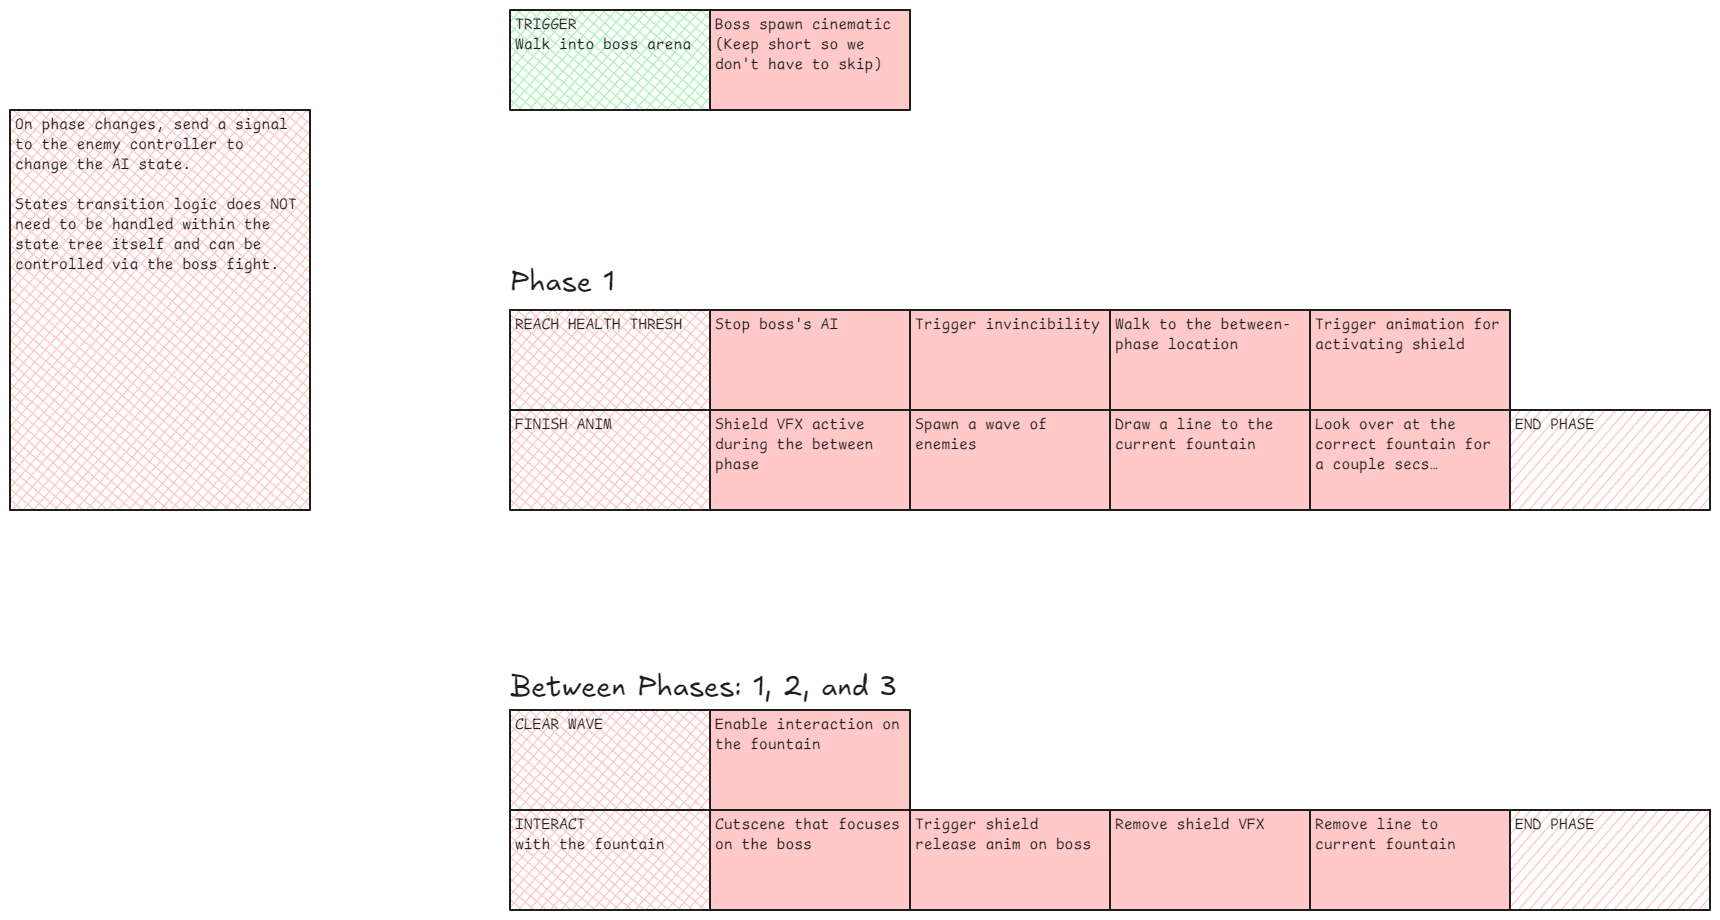
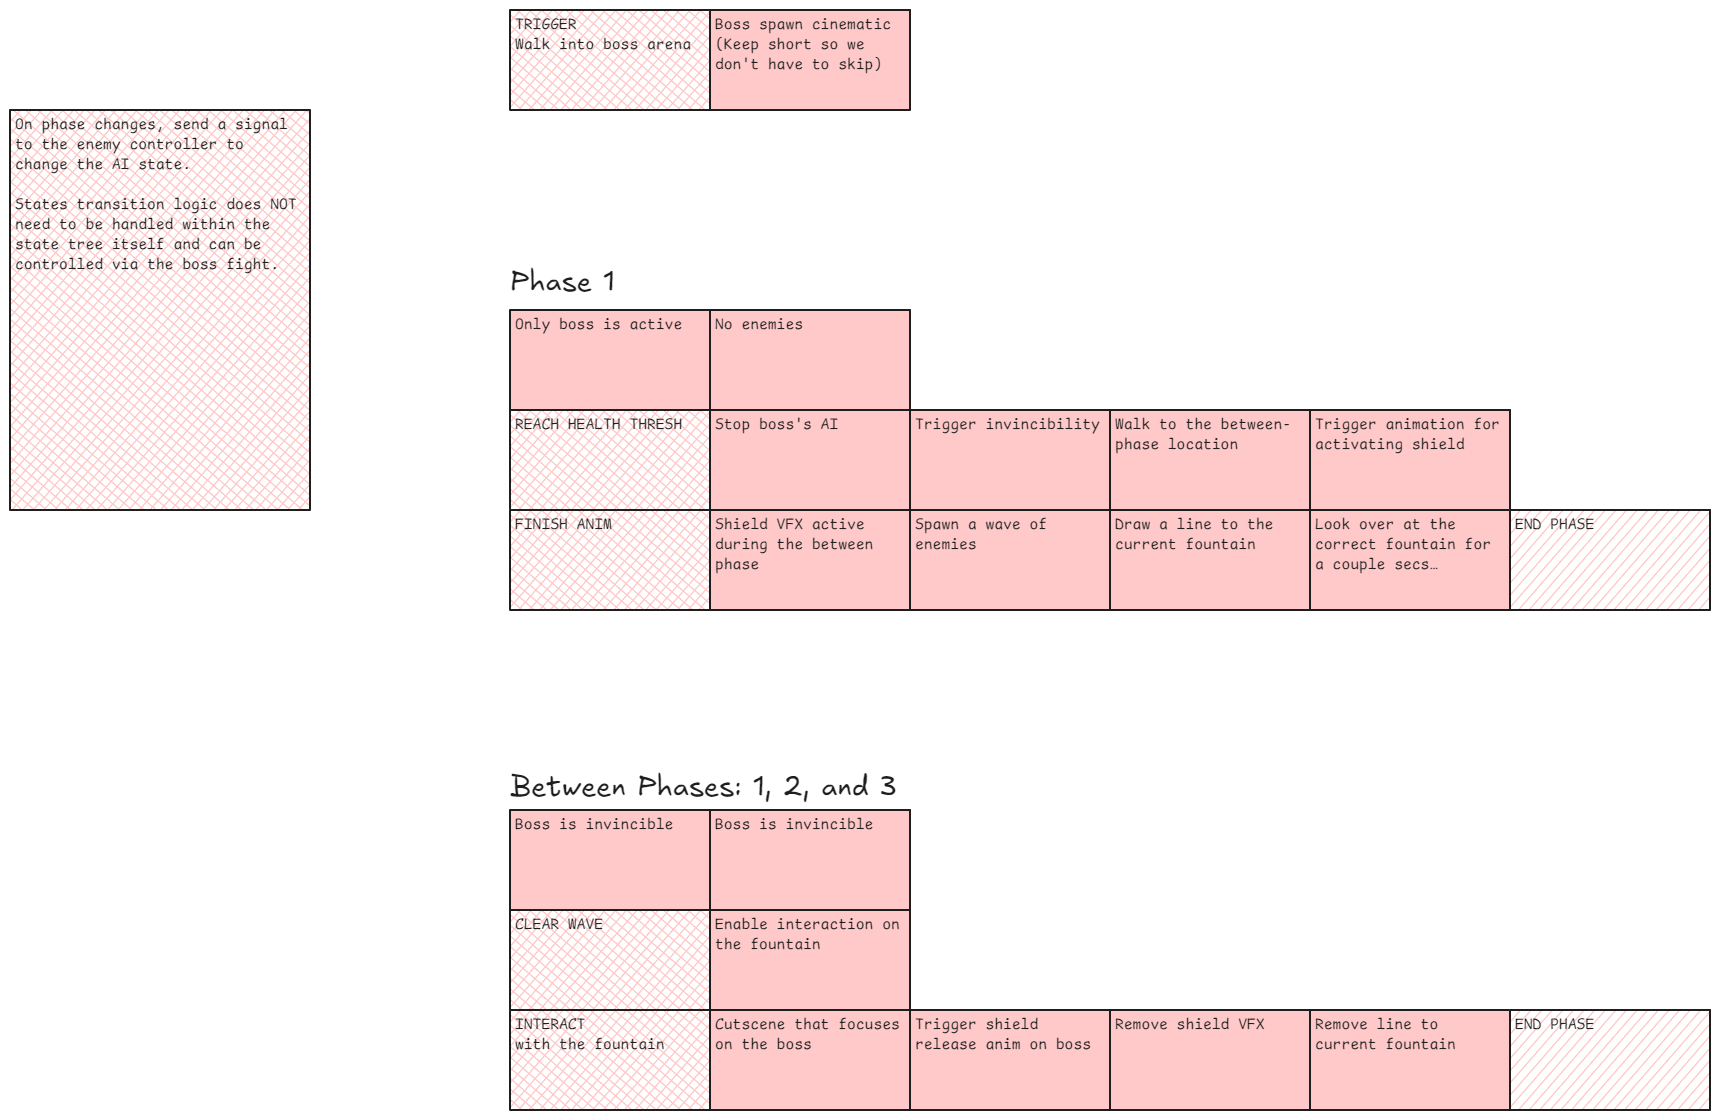
vault backup: 2026-08-07 18:47:00

diff --git a/Projects/Summer Project/Mechanics/Boss/Boss01 Graph.md b/Projects/Summer Project/Mechanics/Boss/Boss01 Graph.md
@@ -65,6 +65,14 @@ END PHASE ^WZFqFpZY
 
 END PHASE ^5tDEfx1q
 
+Only boss is active ^XiBD8hWa
+
+No enemies ^lCbAq8yP
+
+Boss is invincible ^ZVCyfWzu
+
+Boss is invincible ^lYSnM2SD
+
 %%
 ## Drawing
 ```compressed-json
@@ -74,130 +82,142 @@ dW4ARnHR7QBOUeTdhNHRpoB2C+ST6chJBEJlaW4zpc6Ia2Vg7ley5ihSNgAawQAGE2Pg2KRKgBiDYIOF
 
[1 lines of base64/hex data omitted]
 
[2 lines of base64/hex data omitted]
 
[2 lines of base64/hex data omitted]
 
[2 lines of base64/hex data omitted]
 
[2 lines of base64/hex data omitted]
 
[2 lines of base64/hex data omitted]
 
[2 lines of base64/hex data omitted]
 
[2 lines of base64/hex data omitted]
 
[2 lines of base64/hex data omitted]
 
[2 lines of base64/hex data omitted]
 
[2 lines of base64/hex data omitted]
 
[2 lines of base64/hex data omitted]
 
[2 lines of base64/hex data omitted]
 
[2 lines of base64/hex data omitted]
 
[2 lines of base64/hex data omitted]
 
[2 lines of base64/hex data omitted]
 
[2 lines of base64/hex data omitted]
 
[2 lines of base64/hex data omitted]
 
[2 lines of base64/hex data omitted]
 
[2 lines of base64/hex data omitted]
 
[2 lines of base64/hex data omitted]
 
[2 lines of base64/hex data omitted]
 
[2 lines of base64/hex data omitted]
 
[2 lines of base64/hex data omitted]
 
[2 lines of base64/hex data omitted]
 
[2 lines of base64/hex data omitted]
 
[2 lines of base64/hex data omitted]
 
[2 lines of base64/hex data omitted]
 
[2 lines of base64/hex data omitted]
 
[2 lines of base64/hex data omitted]
 
[2 lines of base64/hex data omitted]
 
[2 lines of base64/hex data omitted]
 
[2 lines of base64/hex data omitted]
 
[2 lines of base64/hex data omitted]
 
[2 lines of base64/hex data omitted]
 
[2 lines of base64/hex data omitted]
 
[2 lines of base64/hex data omitted]
 
[2 lines of base64/hex data omitted]
 
[2 lines of base64/hex data omitted]
 
[2 lines of base64/hex data omitted]
 
[2 lines of base64/hex data omitted]
 
[2 lines of base64/hex data omitted]
 
[2 lines of base64/hex data omitted]
 
[2 lines of base64/hex data omitted]
 
[2 lines of base64/hex data omitted]
 
[2 lines of base64/hex data omitted]
 
[2 lines of base64/hex data omitted]
 
[2 lines of base64/hex data omitted]
 
[2 lines of base64/hex data omitted]
 
[2 lines of base64/hex data omitted]
 
[2 lines of base64/hex data omitted]
 
[2 lines of base64/hex data omitted]
 
[2 lines of base64/hex data omitted]
 
[2 lines of base64/hex data omitted]
 
[2 lines of base64/hex data omitted]
 
[2 lines of base64/hex data omitted]
 
[2 lines of base64/hex data omitted]
 
[2 lines of base64/hex data omitted]
 
[2 lines of base64/hex data omitted]
 
[2 lines of base64/hex data omitted]
 
[2 lines of base64/hex data omitted]
 
[2 lines of base64/hex data omitted]
 
[2 lines of base64/hex data omitted]
 
-gGQhn7Uw8kEAA===
[1 lines of base64/hex data omitted]
+
[1 lines of base64/hex data omitted]
+
[1 lines of base64/hex data omitted]
+
[1 lines of base64/hex data omitted]
+
[1 lines of base64/hex data omitted]
+
[1 lines of base64/hex data omitted]
+
[1 lines of base64/hex data omitted]
 ```
 %%
